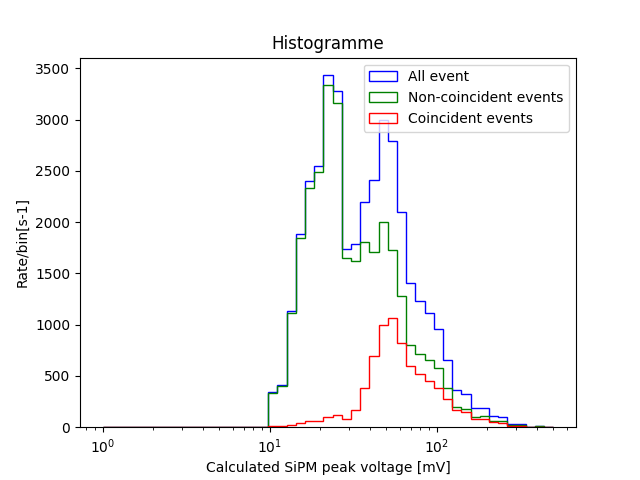
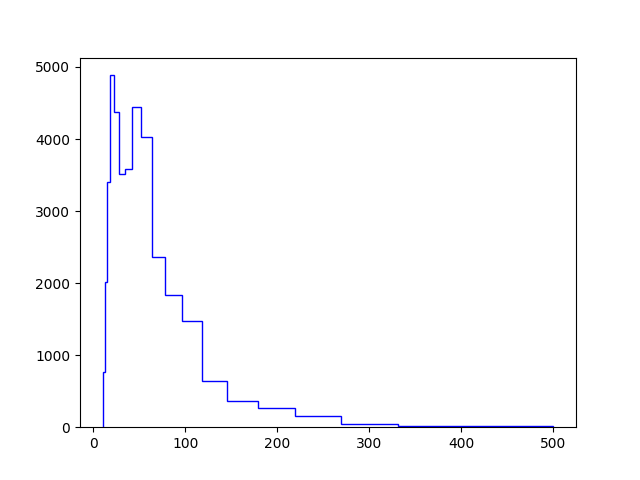
debut de la fin

diff --git a/main.py b/main.py
@@ -10,8 +10,12 @@ def axis(array, colum):
 
 
 def histogrammelog(x, y, width, color, plt):
-    Xlog, Ylog, bs  = plt.hist(x, color=color, bins=np.logspace(np.log10(1), np.log10(500)), histtype='step')
-
+    plt.figure(1)
+    Ylog, Xlog, bs  = plt.hist(x, color=color, bins=np.logspace(np.log10(10), np.log10(500), 20), histtype='step')
+    Ylog = np.append(Ylog, 0)
+    plt.close(1)
+    plt.figure(2)
+    plt.step(Xlog, (Ylog/ np.ceil(max(y)))*1000, color=color)
     plt.xscale("log")
     #plt.step(hist, )
     #plt.step(x, (np.append( histArray, 0) / max(y)), color=color)
